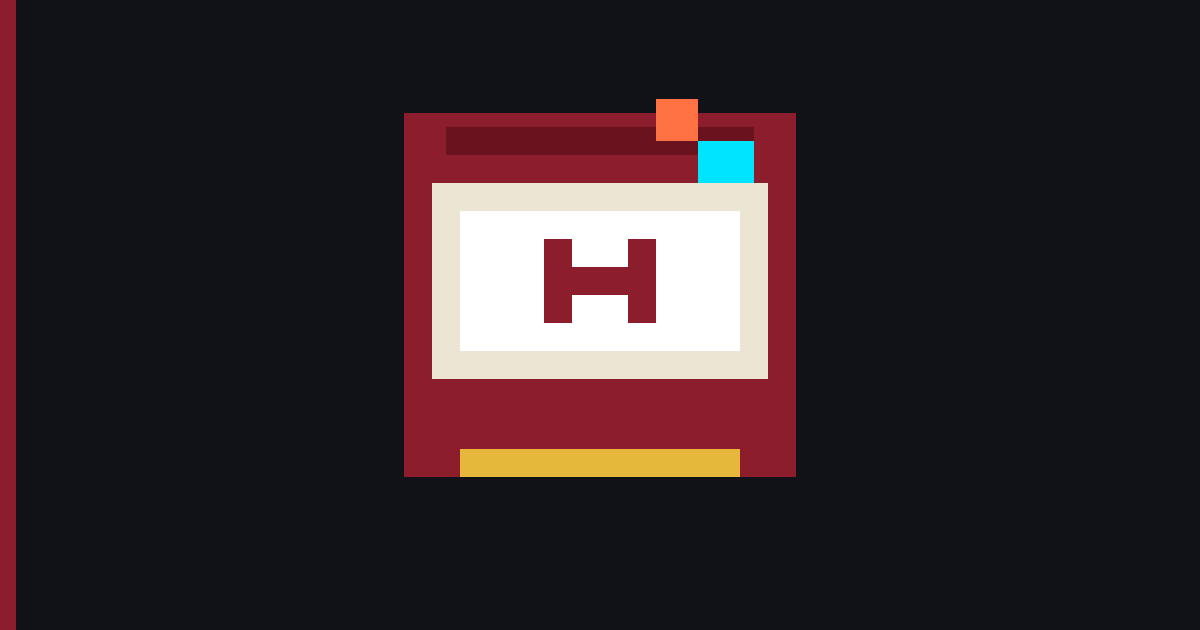
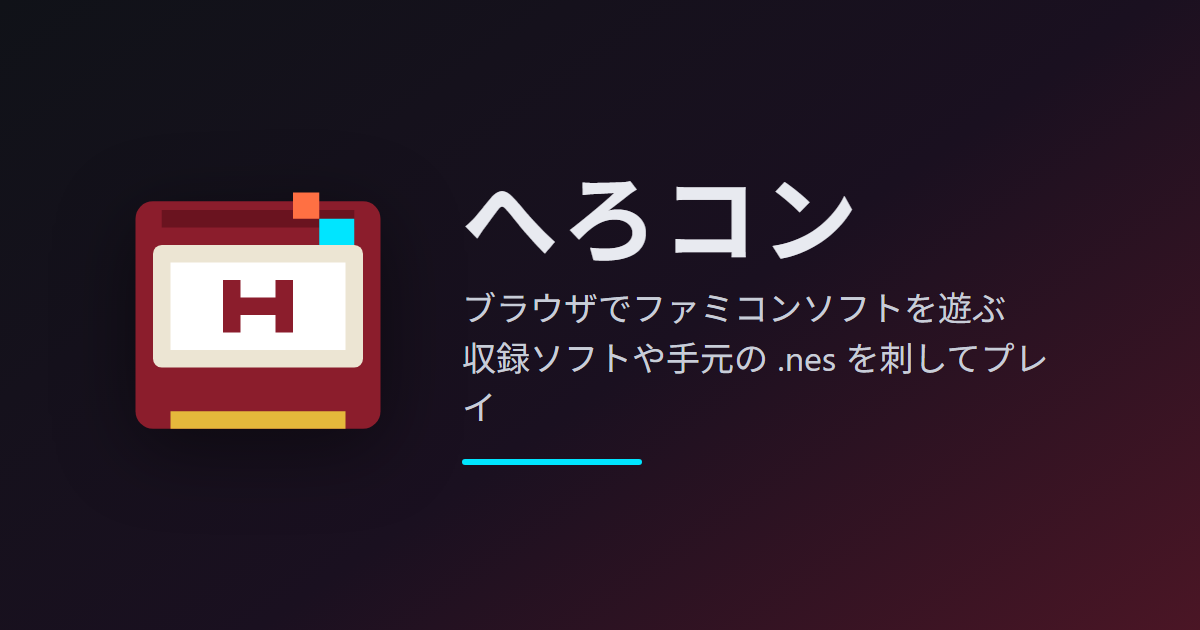
fix: note/X 向けに note:card と見える OGP 画像を追加
note: card=summary_large_image を入れ、1200x630 のブランド画像を再生成する。

diff --git a/apps/web/scripts/og-template.html b/apps/web/scripts/og-template.html
@@ -1,0 +1,65 @@
+<!doctype html>
+<html lang="ja">
+  <head>
+    <meta charset="UTF-8" />
+    <style>
+      * { box-sizing: border-box; margin: 0; padding: 0; }
+      body {
+        width: 1200px;
+        height: 630px;
+        background: linear-gradient(145deg, #101218 0%, #1a1020 55%, #8b1d2c 160%);
+        color: #e8eaf0;
+        font-family: "Segoe UI", "Hiragino Sans", "Noto Sans JP", sans-serif;
+        display: flex;
+        align-items: center;
+        justify-content: center;
+        gap: 64px;
+        padding: 48px 72px;
+      }
+      .mark {
+        width: 280px;
+        height: 280px;
+        flex: 0 0 auto;
+        filter: drop-shadow(0 18px 40px rgba(0, 0, 0, 0.45));
+      }
+      .copy {
+        max-width: 620px;
+      }
+      .copy h1 {
+        font-size: 96px;
+        line-height: 1.05;
+        letter-spacing: 0.04em;
+        margin-bottom: 18px;
+      }
+      .copy p {
+        font-size: 34px;
+        line-height: 1.45;
+        color: #c8cdd8;
+      }
+      .bar {
+        margin-top: 28px;
+        height: 6px;
+        width: 180px;
+        border-radius: 999px;
+        background: #00e5ff;
+      }
+    </style>
+  </head>
+  <body>
+    <svg class="mark" viewBox="0 0 32 32" aria-hidden="true">
+      <rect x="2" y="3" width="28" height="26" rx="2" fill="#8B1D2C"/>
+      <rect x="5" y="4" width="22" height="2" fill="#6A131F"/>
+      <rect x="4" y="8" width="24" height="14" rx="1" fill="#ECE5D3"/>
+      <rect x="6" y="10" width="20" height="10" fill="#FFFFFF"/>
+      <path d="M12 12h2v2h4v-2h2v6h-2v-2h-4v2h-2z" fill="#8B1D2C"/>
+      <rect x="23" y="5" width="4" height="3" fill="#00E5FF"/>
+      <rect x="20" y="2" width="3" height="3" fill="#FF7043"/>
+      <rect x="6" y="27" width="20" height="2" fill="#E5B83B"/>
+    </svg>
+    <div class="copy">
+      <h1>へろコン</h1>
+      <p>ブラウザでファミコンソフトを遊ぶ<br />収録ソフトや手元の .nes を刺してプレイ</p>
+      <div class="bar"></div>
+    </div>
+  </body>
+</html>

diff --git a/apps/web/index.html b/apps/web/index.html
@@ -14,7 +14,8 @@
     <meta property="og:url" content="https://herocon-xi.vercel.app/" />
     <meta property="og:title" content="へろコン" />
     <meta property="og:description" content="ブラウザでファミコンソフトを遊ぶへろコン。収録ソフトや手元の .nes を刺してプレイ。" />
-    <meta property="og:image" content="https://herocon-xi.vercel.app/og-image.png" />
+    <meta property="og:image" content="https://herocon-xi.vercel.app/og-image.png?v=2" />
+    <meta property="og:image:secure_url" content="https://herocon-xi.vercel.app/og-image.png?v=2" />
     <meta property="og:image:type" content="image/png" />
     <meta property="og:image:width" content="1200" />
     <meta property="og:image:height" content="630" />
@@ -23,7 +24,10 @@
     <meta name="twitter:card" content="summary_large_image" />
     <meta name="twitter:title" content="へろコン" />
     <meta name="twitter:description" content="ブラウザでファミコンソフトを遊ぶへろコン。収録ソフトや手元の .nes を刺してプレイ。" />
-    <meta name="twitter:image" content="https://herocon-xi.vercel.app/og-image.png" />
+    <meta name="twitter:image" content="https://herocon-xi.vercel.app/og-image.png?v=2" />
+
+    <!-- note.com のリンクカード用（大きく表示） -->
+    <meta name="note:card" content="summary_large_image" />
 
     <link rel="icon" href="./favicon.svg?v=3" type="image/svg+xml" />
     <link rel="apple-touch-icon" href="./apple-touch-icon.png" />
